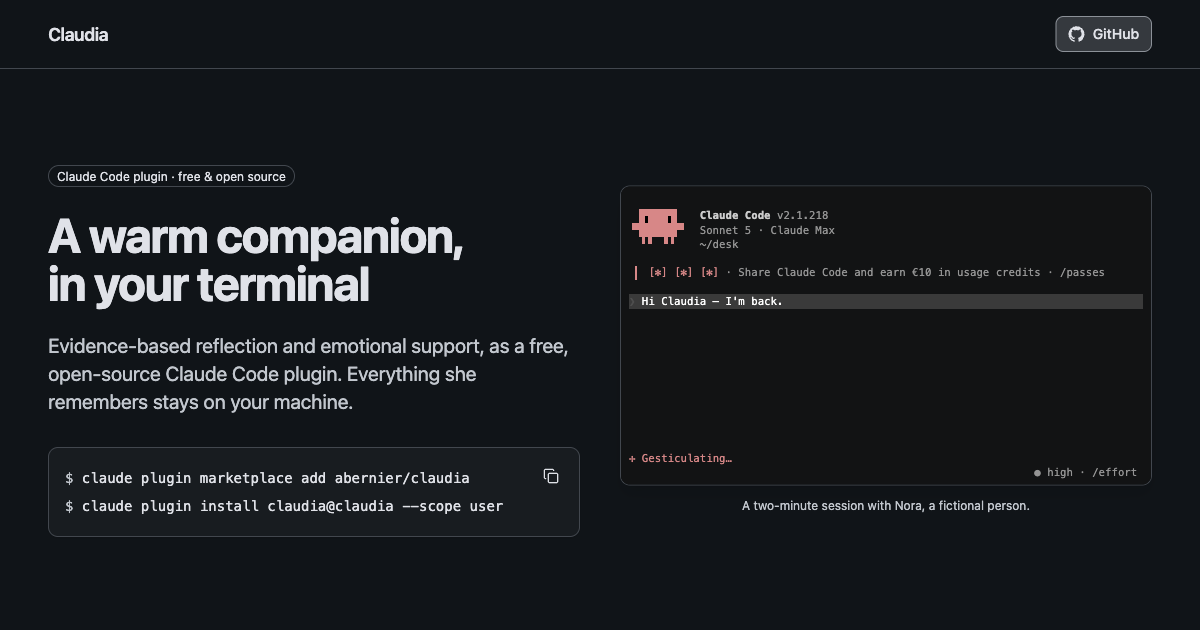
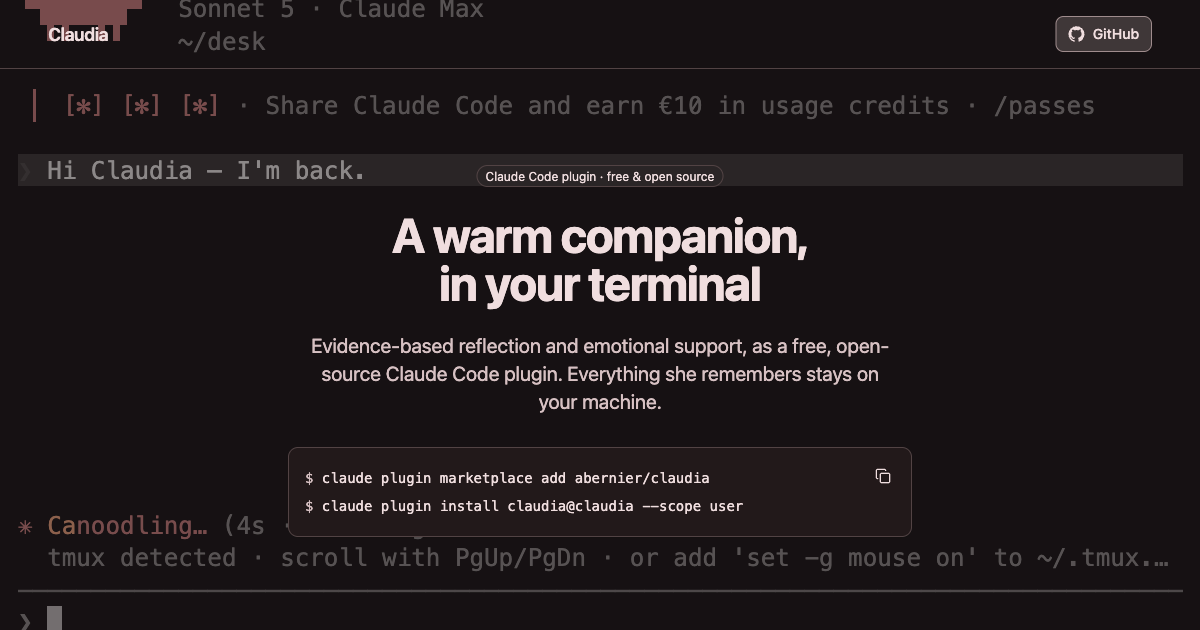
The session becomes the backdrop — raspberry seed, sizematters footer
Second design pass from review. The hero goes full superposition,
sizematters-style: the asciinema session plays full-bleed behind a
translucent veil (player z-0, veil z-10, copy z-20), chromeless,
autoplaying, looping — the Nora caption goes away. The element handed to
the player must be a block: inside a flex container, .ap-wrapper shrinks
onto its 0-wide content and the fit-width math latches onto 0.

The Mcu source colour becomes #cd194e — a warm raspberry palette of its
own — with theme-color and the favicon following the generated tones
(#1a1112 surface, #ffb2bb primary).

The footer aligns on sizematters for real: toggles at gap-4, a bare
© line, and the legal block as editorial fine print — the summary
carries LEGAL NOTICE + publisher in whitespace-pre-line behind a
border-t, the body continues with host, publication director, and a
privacy policy. The standalone disclaimer line and unused footer keys
go away.

Claude-Session: https://claude.ai/code/session_01Q9v8ixEan73i8eaSwBmf43

diff --git a/site/src/page.tsx b/site/src/page.tsx
@@ -82,10 +82,15 @@ export function Page() {
     <div className="bg-background text-foreground min-h-screen">
       {/* Above-the-fold band — header + hero share a viewport-height flex
           column so the hero (flex-1) fills exactly the space the header
-          doesn't. `min-h-dvh` (not `h-dvh`) so short viewports grow instead
-          of clipping the player. */}
-      <div className="flex min-h-dvh flex-col">
-        <header className="border-b">
+          doesn't, sizematters-style. The session plays as a full-bleed
+          background layer under a translucent veil: player z-0, veil z-10,
+          header and copy layered on top via z-20. */}
+      <div className="relative flex h-dvh flex-col overflow-hidden">
+        <div aria-hidden className="absolute inset-0 z-0">
+          <AsciinemaDemo />
+        </div>
+        <div aria-hidden className="bg-background/50 absolute inset-0 z-10" />
+        <header className="relative z-20 border-b">
           <nav className="mx-auto flex w-full max-w-6xl items-center justify-between px-6 py-4">
             <a href={homeHref} className="text-lg font-semibold tracking-tight">
               {APP_NAME}
@@ -101,29 +106,19 @@ export function Page() {
           </nav>
         </header>
 
-        {/* Hero — copy + install on the left, the session playing on the right */}
-        <section className="flex flex-1 items-center py-10">
-          <div className="mx-auto grid w-full max-w-6xl items-center gap-10 px-6 lg:grid-cols-2">
-            <div className="text-center lg:text-left">
-              <Badge variant="outline" className="font-normal">
-                <FormattedMessage id="hero.badge" />
-              </Badge>
-              <h1 className="mt-6 text-4xl font-bold tracking-tight text-balance sm:text-5xl">
-                <FormattedMessage id="hero.title" />
-              </h1>
-              <p className="text-muted-foreground mt-6 text-lg text-pretty sm:text-xl">
-                <FormattedMessage id="hero.subtitle" />
-              </p>
-              <InstallBlock />
-            </div>
-            <div>
-              <div className="overflow-hidden rounded-lg border shadow-lg">
-                <AsciinemaDemo />
-              </div>
-              <p className="text-muted-foreground mt-3 text-center text-xs">
-                <FormattedMessage id="hero.demoCaption" />
-              </p>
-            </div>
+        {/* Hero — centered copy + install over the playing session */}
+        <section className="relative z-20 flex flex-1 items-center">
+          <div className="mx-auto w-full max-w-2xl px-6 text-center">
+            <Badge variant="outline" className="font-normal">
+              <FormattedMessage id="hero.badge" />
+            </Badge>
+            <h1 className="mt-6 text-4xl font-bold tracking-tight text-balance sm:text-5xl">
+              <FormattedMessage id="hero.title" />
+            </h1>
+            <p className="text-muted-foreground mt-6 text-lg text-pretty sm:text-xl">
+              <FormattedMessage id="hero.subtitle" />
+            </p>
+            <InstallBlock />
           </div>
         </section>
       </div>
@@ -325,15 +320,9 @@ export function Page() {
         <div className="text-muted-foreground mx-auto max-w-5xl px-6 text-sm">
           <div className="flex flex-col items-center justify-between gap-4 sm:flex-row">
             <span>
-              © {new Date().getFullYear()} {APP_NAME} ·{" "}
-              <a
-                href={`${GITHUB_URL}/blob/main/LICENSE`}
-                className="hover:text-foreground underline-offset-4 hover:underline"
-              >
-                <FormattedMessage id="footer.license" />
-              </a>
+              © {new Date().getFullYear()} {APP_NAME}
             </span>
-            <div className="flex items-center gap-2">
+            <div className="flex items-center gap-4">
               <ThemeToggle />
               <LocaleToggle
                 variant="ghost"
@@ -349,13 +338,17 @@ export function Page() {
               </Button>
             </div>
           </div>
-          <p className="mt-8 border-t pt-8 text-center text-xs text-pretty">
-            <FormattedMessage id="footer.disclaimer" />
-          </p>
-          {/* Legal — fine print behind a native <details>, deeplinkable via
-              `#legal`. Mono + text-xs step out of the marketing voice. */}
-          <details ref={legalRef} id="legal" className="scroll-mt-8 mt-8 font-mono text-xs">
-            <summary className="hover:text-foreground cursor-pointer text-center">
+          {/* Legal — always rendered at the bottom, line-clamped to the
+              summary's first block by default, sizematters-style. The
+              `#legal` anchor deep-links here and pre-expands the block.
+              Mono + text-xs + muted give it a "fine print" aesthetic that
+              steps out of the marketing voice of the rest of the page. */}
+          <details
+            ref={legalRef}
+            id="legal"
+            className="text-muted-foreground scroll-mt-8 mt-8 border-t pt-8 font-mono text-xs"
+          >
+            <summary className="hover:text-foreground cursor-pointer whitespace-pre-line">
               <FormattedMessage id="legal.summary" />
             </summary>
             <div className="mt-4 whitespace-pre-line">
@@ -410,9 +403,10 @@ function InstallBlock() {
 
 /**
  * The two-minute session with Nora, played by asciinema-player from the
- * cast file in the repo's demo kit — autoplaying and looping in the hero.
- * Client-only: the player mounts in an effect, so the prerendered HTML
- * ships an empty (aspect-reserved) box.
+ * cast file in the repo's demo kit — the hero's full-bleed background:
+ * autoplaying, looping, chromeless (it sits under the veil, so it is
+ * ambience, not a control surface). Client-only: the player mounts in an
+ * effect, so the prerendered HTML ships an empty box.
  */
 function AsciinemaDemo() {
   const ref = useRef<HTMLDivElement>(null);
@@ -425,6 +419,7 @@ function AsciinemaDemo() {
         fit: "width",
         autoPlay: true,
         loop: true,
+        controls: false,
       });
     });
     return () => {
@@ -432,7 +427,14 @@ function AsciinemaDemo() {
       player?.dispose();
     };
   }, []);
-  return <div ref={ref} className="aspect-video [&_.ap-player]:rounded-none" />;
+  return (
+    // The element handed to the player must be a block — inside a flex
+    // container, `.ap-wrapper` shrinks to its (initially 0-wide) content
+    // and the fit-width math latches onto 0. The outer flex only centers.
+    <div className="flex h-full w-full items-center justify-center">
+      <div ref={ref} className="w-full" />
+    </div>
+  );
 }
 
 function Feature({ icon, titleId, descriptionId }: { icon: ReactNode; titleId: string; descriptionId: string }) {

diff --git a/site/index.html b/site/index.html
@@ -8,7 +8,7 @@
       name="description"
       content="Claudia is a free, open-source Claude Code plugin: a generalist companion for reflection and emotional support. Her memory stays in plain Markdown on your machine."
     />
-    <meta name="theme-color" content="#0e1216" />
+    <meta name="theme-color" content="#1a1112" />
     <link rel="icon" href="/favicon.svg" type="image/svg+xml" />
 
     <!-- Open Graph -->

diff --git a/site/src/providers.tsx b/site/src/providers.tsx
@@ -8,7 +8,7 @@ import { TooltipProvider } from "./components/ui/tooltip";
  * can extract the matching CSS at build time and inline it in the `<head>`
  * to avoid a white flash before `<Mcu>` mounts client-side.
  */
-export const MCU_SOURCE = "#0e1216";
+export const MCU_SOURCE = "#cd194e";
 
 /**
  * Shared provider tree for the landing page.